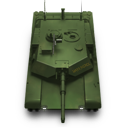
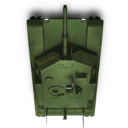
change direction successfully but the tank move down some pixal every key press

diff --git a/tank/src/xeon/tank/vehicle/Tank.java b/tank/src/xeon/tank/vehicle/Tank.java
@@ -7,6 +7,8 @@ import xeon.tank.util.ImageHelper;
 
 import javax.swing.JComponent;
 import java.awt.Point;
+import java.awt.event.InputEvent;
+import java.awt.event.KeyEvent;
 
 /**
  * User: xeon
@@ -15,7 +17,7 @@ import java.awt.Point;
  */
 public abstract class Tank extends AbstractComponent implements Observer {
 
-    private int rotation = 0;
+    private Direction direction = Direction.NORTH;
 
     public Tank(JComponent paper, Point position, int width, int height) {
         super(position, paper, width, height);
@@ -28,19 +30,21 @@ public abstract class Tank extends AbstractComponent implements Observer {
     }
 
     public void pointTo(Direction direction) {
-        rotation %= 360;
-        int rotateDegree = rotation - direction.getValue();
+        int rotateDegree = direction.getValue() - (this.direction.getValue() % 360);
+        rotateDegree = rotateDegree < 0 ? rotateDegree + 360 : rotateDegree;
         switch (rotateDegree){
             case 90:
-                rotate90ToRight();
+                setImage(ImageHelper.rotate90ToRight(getImage()));
                 break;
             case 180:
-                rotate180();
+                setImage(ImageHelper.rotate180(getImage()));
                 break;
             case 270:
-                rotate90ToLeft();
+                setImage(ImageHelper.rotate90ToLeft(getImage()));
                 break;
         }
+        this.direction = this.direction.rotate(rotateDegree);
+        clean();
         paint();
     }
 
@@ -50,19 +54,41 @@ public abstract class Tank extends AbstractComponent implements Observer {
         }
     }
 
-    private void rotate180() {
-        setImage(ImageHelper.rotate180(getImage()));
-        rotation += 180;
+    @Override
+    public void update(InputEvent event) {
+        gotoPosition(new Point(position.x, position.y + height/2));
+        if (event instanceof KeyEvent) {
+            switch (((KeyEvent)event).getKeyCode()) {
+                case 37 :
+                    leftKeyPressed();
+                    break;
+                case 38 :
+                    upKeyPressed();
+                    break;
+                case 39 :
+                    rightKeyPressed();
+                    break;
+                case 40 :
+                    downKeyPressed();
+                    break;
+            }
+        }
     }
 
-    private void rotate90ToLeft() {
-        setImage(ImageHelper.rotate90ToLeft(getImage()));
-        rotation += 270;
+    private void upKeyPressed() {
+        pointTo(Direction.NORTH);
     }
 
-    private void rotate90ToRight() {
-        setImage(ImageHelper.rotate90ToRight(getImage()));
-        rotation += 90;
+    private void downKeyPressed() {
+        pointTo(Direction.SOUTH);
+    }
+
+    private void leftKeyPressed() {
+        pointTo(Direction.WEST);
+    }
+
+    private void rightKeyPressed() {
+        pointTo(Direction.EAST);
     }
 
 }

diff --git a/tank/src/xeon/tank/OperateListener.java b/tank/src/xeon/tank/OperateListener.java
@@ -2,10 +2,8 @@ package xeon.tank;
 
 import xeon.tank.abs.EventHandler;
 
-import javax.swing.*;
 import java.awt.event.KeyAdapter;
 import java.awt.event.KeyEvent;
-import java.awt.event.KeyListener;
 
 /**
  * User: xeon
@@ -29,42 +27,12 @@ public class OperateListener extends KeyAdapter {
     /** Handle the key-pressed event from the text field. */
     public void keyPressed(KeyEvent e) {
         displayInfo(e, "KEY PRESSED: ");
-
-        switch (e.getKeyCode()) {
-            case 37 :
-                leftKeyPressed(e);
-                break;
-            case 38 :
-                upKeyPressed(e);
-                break;
-            case 39 :
-                rightKeyPressed(e);
-                break;
-            case 40 :
-                downKeyPressed(e);
-                break;
-        }
+        handler.processEvent(e);
     }
 
     /** Handle the key-released event from the text field. */
     public void keyReleased(KeyEvent e) {
         displayInfo(e, "KEY RELEASED: ");
-    }
-
-    private void upKeyPressed(KeyEvent e) {
-
-    }
-
-    private void downKeyPressed(KeyEvent e) {
-        handler.processEvent(e);
-    }
-
-    private void leftKeyPressed(KeyEvent e) {
-
-    }
-
-    private void rightKeyPressed(KeyEvent e) {
-
     }
 
     private void displayInfo(KeyEvent e, String keyStatus){

diff --git a/tank/src/xeon/tank/wall/DefaultWall.java b/tank/src/xeon/tank/wall/DefaultWall.java
@@ -1,9 +1,9 @@
 package xeon.tank.wall;
 
 import javax.imageio.ImageIO;
-import javax.swing.JComponent;
-import java.awt.Image;
-import java.awt.Point;
+import javax.swing.*;
+import java.awt.*;
+import java.awt.image.BufferedImage;
 import java.io.File;
 import java.io.IOException;
 
@@ -14,7 +14,7 @@ import java.io.IOException;
  */
 public class DefaultWall extends Wall {
 
-    public static Image image;
+    public static BufferedImage image;
     static {
         try {
             image = ImageIO.read(new File("sources/defaultWall.jpg"));

diff --git a/tank/src/xeon/tank/vehicle/Direction.java b/tank/src/xeon/tank/vehicle/Direction.java
@@ -18,4 +18,19 @@ public enum Direction {
     public int getValue() {
         return rotation;
     }
+
+    public Direction rotate(int rotation) {
+        int newRotation = (getValue() + rotation) % 360;
+        switch (newRotation) {
+            case 0:
+                return NORTH;
+            case 90:
+                return EAST;
+            case 180:
+                return SOUTH;
+            case 270:
+                return WEST;
+        }
+        return null;
+    }
 }

diff --git a/tank/src/xeon/tank/vehicle/DefaultTank.java b/tank/src/xeon/tank/vehicle/DefaultTank.java
@@ -4,6 +4,7 @@ import javax.imageio.ImageIO;
 import javax.swing.*;
 import java.awt.*;
 import java.awt.event.InputEvent;
+import java.awt.event.KeyEvent;
 import java.awt.image.BufferedImage;
 import java.io.File;
 import java.io.IOException;
@@ -29,8 +30,4 @@ public class DefaultTank extends Tank {
         setImage(image);
     }
 
-    @Override
-    public void update(InputEvent event) {
-        gotoPosition(new Point(position.x, position.y + height/2));
-    }
 }

diff --git a/tank/src/xeon/tank/DrawPanel.java b/tank/src/xeon/tank/DrawPanel.java
@@ -4,10 +4,9 @@ import xeon.tank.abs.EventHandler;
 import xeon.tank.abs.Observer;
 import xeon.tank.abs.PaintAble;
 
-import javax.swing.JPanel;
-import java.awt.Graphics;
+import javax.swing.*;
+import java.awt.*;
 import java.awt.event.InputEvent;
-import java.awt.event.KeyEvent;
 import java.util.ArrayList;
 import java.util.List;
 
